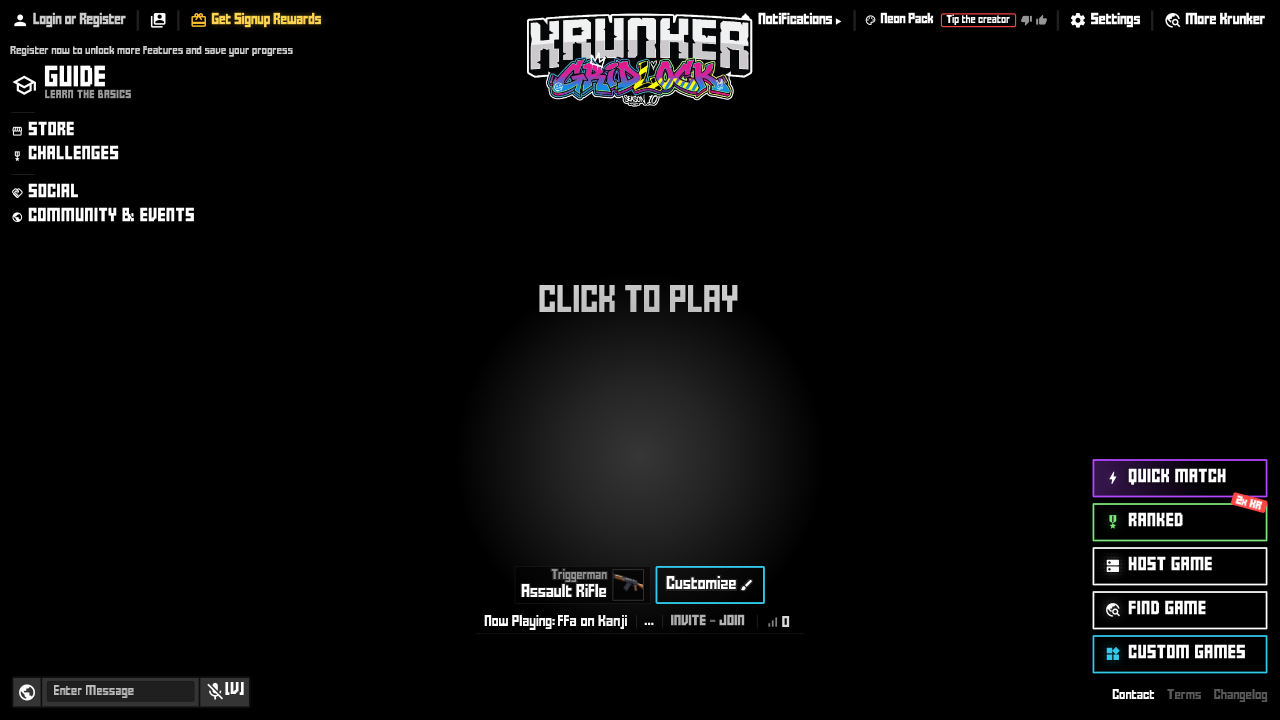
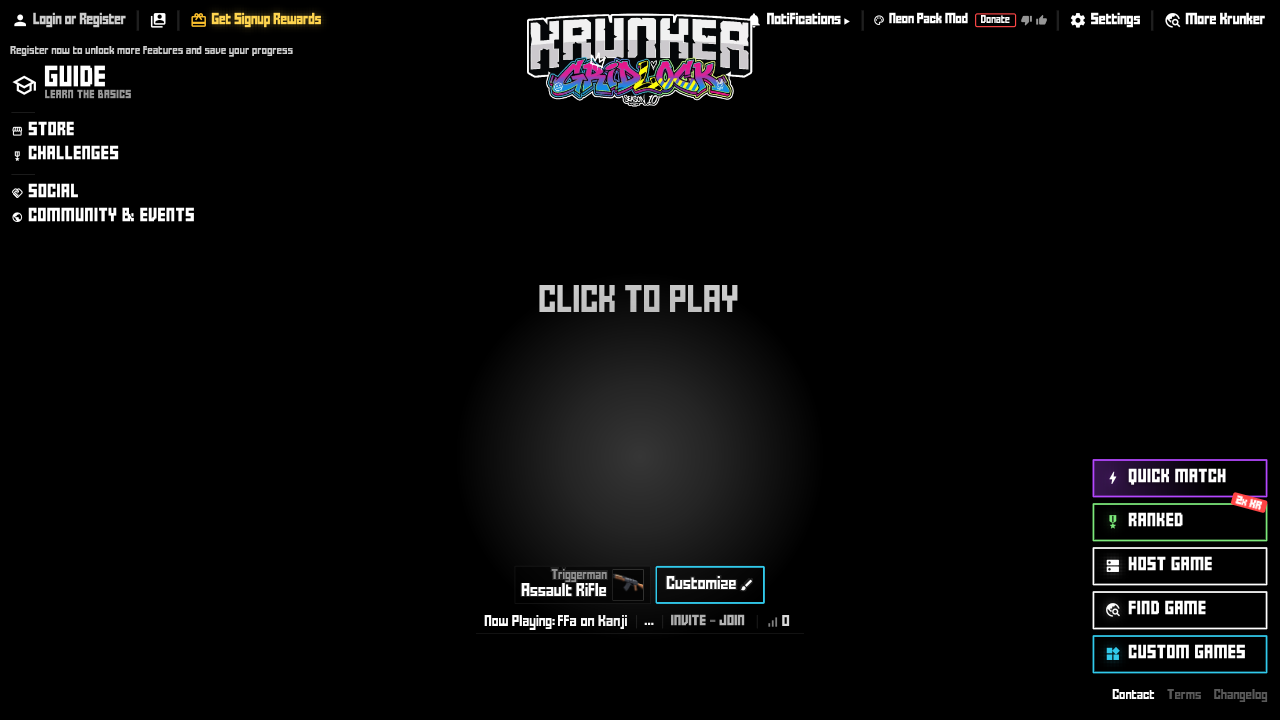
ui: the map and mod vote panels carry v10's Donate link and markup
v10.0.7 fills #mapVote with <div class='voteHint'>Donate</div> and a
<div style='float:right;'> holding the two thumbs (deob-10.0.7.js:226239),
and #modVoteHold with the same pair laid out with a "voteHint vHR" Donate
link (:225878); #modVoteName reads "<name> Mod" (:225875) and voteMod
hides the thumbs' box (:227008-227016).

KrunkNative drew Box Office's own "Tip the creator" span
(kn.creationVote.tip) inside a .kn-vote-pair span, and showed the bare
mod name. The panels now use v10's markup and label; the i18n key is gone.

creation_vote_test checks the exact markup, the label and "<name> Mod":
7 failures against the old creation_vote.c, 0 after. uidiff kn-map-vote
and kn-mod-vote failed at 29.6% and 14.9% against the old renders and
pass after rebaselining doc/ref/krunknative to the new ones.

Changed region(s): [[0.0, 0.9167, 0.2188, 1.0], [0.5625, 0.0, 0.7812, 0.0611], [0.4062, 0.7944, 0.4688, 0.825]]

diff --git a/client/src/ui/creation_vote.c b/client/src/ui/creation_vote.c
@@ -1,7 +1,7 @@
 // The menu's vote on the community map this game hosts (#mapVote) and on the player's loaded mod (#modVote).
 //
-// Behaviour follows Krunker v10.0.7; the markup and wording are Box Office's own:
-//   - a hosted published map fills #mapVote with a tip link for its creator and thumbs down / up
+// Behaviour, markup and wording follow Krunker v10.0.7:
+//   - a hosted published map fills #mapVote with a Donate link for its creator and thumbs down / up
 //     (deob-10.0.7.js:226239, from INIT's custom map id and creator; here NET_EXT_KN_CREATION_INFO);
 //     an official map or a map the brain does not know leaves it empty (:226235);
 //   - voteMap(id, v) (:227018-227031): pressing the side already chosen clears the vote (0), the other
@@ -9,8 +9,10 @@
 //     "Map Upvoted" line runs only when a third argument is passed, and the panel's onclick does not
 //     pass one, so a vote from the panel is silent. A guest's press just empties the panel (:227031);
 //   - voteMod(id, v) (:227008-227016): the same three-way choice for the loaded mod, then the thumbs'
-//     box is hidden and the Donate link stays; #modVote shows while a mod with a brain id is loaded
-//     (:225872-225880).
+//     box (modVoteU's parent) is hidden and the Donate link stays; #modVote shows "<name> Mod" while a mod
+//     with a brain id is loaded (:225872-225880).
+// The Donate links call openPlayerProfile with KrunkNative's positional arguments (name, autoGift, assetName)
+// where v10 passes {autoGift, assetName}: the page's inline handlers take no object literals.
 // Krunker sends the vote on the game socket (MAP_VOTE "vote"); Box Office's maps and mods live in kn_brain,
 // so the client posts it there (services/brain/v10_catalog.c POST /maps/:id/vote, v10_mods.c POST
 // /mods/:id/vote), which keeps one vote per account and the net count.
@@ -18,7 +20,6 @@
 
 #include <backend_ui.h>
 #include <html_dom.h>
-#include <i18n.h>
 #include <ui_logic.h>
 #include <v10_social.h>
 
@@ -85,18 +86,15 @@ static void render_map(void) {
         html_dom_set_html(box, "");
         return;
     }
-    char who[48], what[160], label[80], html[800];
+    char who[48], what[160], html[800];
     js_arg(who, sizeof(who), g_map.creator);
     js_arg(what, sizeof(what), g_map.name);
-    esc(label, sizeof(label), I18N("kn.creationVote.tip", "Tip the creator"));
     // openPlayerProfile(creator, {autoGift: 2, assetName: map}) (:226239): the gift view says "I like your <map> map"
     snprintf(html, sizeof(html),
-             "<span class=\"voteHint\" onclick='openPlayerProfile(\"%s\",2,\"%s\")'>%s</span>"
-             "<span class=\"kn-vote-pair\">"
-             "<i id=\"mapVoteD\" class=\"material-icons vote\" onclick=\"voteMap(%d,-1)\">thumb_down</i>"
-             "<i id=\"mapVoteU\" class=\"material-icons vote\" onclick=\"voteMap(%d,1)\">thumb_up</i>"
-             "</span>",
-             who, what, label, g_map.id, g_map.id);
+             "<div class='voteHint'  onclick='openPlayerProfile(\"%s\",2,\"%s\")'>Donate</div>"
+             "<div style='float:right;'><i id='mapVoteD' onclick='voteMap(%d,-1)' class='material-icons vote'>thumb_down</i>"
+             "<i id='mapVoteU' onclick='voteMap(%d,1)' class='material-icons vote'>thumb_up</i></div>",
+             who, what, g_map.id, g_map.id);
     html_dom_set_html(box, html);
 }
 
@@ -107,27 +105,25 @@ static void render_mod(void) {
         html_dom_set_display(box, "none");
         return;
     }
-    char name[96], text[128];
-    esc(name, sizeof(name), g_mod.name[0] ? g_mod.name : "Mod");
+    char text[128];
     const HtmlElem title = html_dom_by_id("modVoteName");
-    if (title) {
-        snprintf(text, sizeof(text), "%s", g_mod.name[0] ? g_mod.name : "Mod");
+    if (title) { // name + " Mod" (:225875)
+        snprintf(text, sizeof(text), "%s Mod", g_mod.name);
         html_dom_set_text(title, text);
     }
     const HtmlElem hold = html_dom_by_id("modVoteHold");
     if (hold) {
-        char who[48], what[160], label[80], html[800];
+        char who[48], what[160], html[800];
         js_arg(who, sizeof(who), g_mod.creator);
         js_arg(what, sizeof(what), g_mod.name);
-        esc(label, sizeof(label), I18N("kn.creationVote.tip", "Tip the creator"));
         // openPlayerProfile(creator, {autoGift: 1, assetName: mod}) (:225878): "I like your <mod> mod"
         snprintf(html, sizeof(html),
-                 "<span class=\"voteHint vHR\" onclick='openPlayerProfile(\"%s\",1,\"%s\")'>%s</span>"
-                 "<span class=\"kn-vote-pair\" id=\"modVotePair\">"
-                 "<i id=\"modVoteD\" class=\"material-icons vote\" onclick=\"voteMod(%d,-1)\">thumb_down</i>"
-                 "<i id=\"modVoteU\" class=\"material-icons vote\" onclick=\"voteMod(%d,1)\">thumb_up</i>"
-                 "</span>",
-                 who, what, label, g_mod.id, g_mod.id);
+                 "\n\t\t\t\t<div class=\"voteHint vHR\" onclick='openPlayerProfile(\"%s\",1,\"%s\")'>Donate</div>\n"
+                 "\t\t\t\t<div style=\"float:right;\">\n"
+                 "\t\t\t\t\t<i id=\"modVoteD\" onclick=\"voteMod(%d, -1);\" class='material-icons vote'>thumb_down</i>\n"
+                 "\t\t\t\t\t<i id=\"modVoteU\" onclick=\"voteMod(%d, 1);\" class='material-icons vote'>thumb_up</i>\n"
+                 "\t\t\t\t</div>\n\t\t\t",
+                 who, what, g_mod.id, g_mod.id);
         html_dom_set_html(hold, html);
         html_dom_set_display(hold, "");
     }
@@ -196,7 +192,8 @@ int creation_vote_handle(const char *name, const HtmlEvent *ev, const HtmlArg *a
         remove_by_id("mapVoteU");
     } else {
         // the thumbs' box (modVoteU's parent), not the Donate link beside it (:227016)
-        const HtmlElem pair = html_dom_by_id("modVotePair");
+        const HtmlElem up = html_dom_by_id("modVoteU");
+        const HtmlElem pair = up ? html_dom_parent(up) : 0;
         if (pair) html_dom_set_display(pair, "none");
     }
     return 0;

diff --git a/client/tests/creation_vote_test.c b/client/tests/creation_vote_test.c
@@ -15,7 +15,8 @@ static int g_fail;
 
 // ---- stubs: a tiny id -> {html, display, removed} table
 typedef struct { const char *id; char html[1024]; char display[16]; int removed; } El;
-static El g_els[] = {{"mapVote"}, {"modVote"}, {"modVoteName"}, {"modVoteHold"}, {"mapVoteU"}, {"mapVoteD"}, {"modVotePair"}};
+// modVoteU's parent stands for the thumbs' box of #modVoteHold's markup (v10 gives it no id)
+static El g_els[] = {{"mapVote"}, {"modVote"}, {"modVoteName"}, {"modVoteHold"}, {"mapVoteU"}, {"mapVoteD"}, {"(modVoteU's parent)"}, {"modVoteU"}};
 #define NELS ((int) (sizeof(g_els) / sizeof(g_els[0])))
 HtmlElem html_dom_by_id(const char *id) {
     for (int i = 0; i < NELS; i++)
@@ -26,6 +27,7 @@ void html_dom_set_html(HtmlElem e, const char *html) { snprintf(g_els[e - 1].htm
 void html_dom_set_text(HtmlElem e, const char *t) { snprintf(g_els[e - 1].html, sizeof(g_els[0].html), "%s", t); }
 void html_dom_set_display(HtmlElem e, const char *v) { snprintf(g_els[e - 1].display, sizeof(g_els[0].display), "%s", v); }
 void html_dom_remove(HtmlElem e) { g_els[e - 1].removed = 1; }
+HtmlElem html_dom_parent(HtmlElem e) { return e == 8 ? (HtmlElem) 7 : 0; }
 const char *i18n_tr(const char *key, const char *english) { (void) key; return english; }
 
 static char g_notice[256];
@@ -61,9 +63,15 @@ int main(void) {
 
     // a hosted map fills #mapVote with both buttons
     creation_vote_set_map(4242, "Arena", "alice");
-    CHECK(strstr(g_els[0].html, "id=\"mapVoteU\"") && strstr(g_els[0].html, "id=\"mapVoteD\""), "map buttons rendered");
-    // the tip opens the creator's profile with autoGift 2 and the map's name (deob-10.0.7.js:226239)
+    CHECK(strstr(g_els[0].html, "id='mapVoteU'") && strstr(g_els[0].html, "id='mapVoteD'"), "map buttons rendered");
+    // Donate opens the creator's profile with autoGift 2 and the map's name (deob-10.0.7.js:226239)
     CHECK(strstr(g_els[0].html, "voteMap(4242,1)") && strstr(g_els[0].html, "openPlayerProfile(\"alice\",2,\"Arena\")"), "map handlers");
+    // v10's label and markup: a voteHint div "Donate", the thumbs in a float:right div (:226239)
+    CHECK(strstr(g_els[0].html, "<div class='voteHint'  onclick='openPlayerProfile(\"alice\",2,\"Arena\")'>Donate</div>"
+                                "<div style='float:right;'><i id='mapVoteD' onclick='voteMap(4242,-1)' class='material-icons vote'>thumb_down</i>"
+                                "<i id='mapVoteU' onclick='voteMap(4242,1)' class='material-icons vote'>thumb_up</i></div>") != NULL,
+          "map panel: v10's Donate link and thumbs markup");
+    CHECK(!strstr(g_els[0].html, "Tip the creator"), "map panel: no Box Office tip wording");
 
     // a creator name cannot break out of the inline handler
     creation_vote_set_map(4242, "Arena", "al\"ice');x()//");
@@ -112,9 +120,13 @@ int main(void) {
     // a loaded mod shows #modVote; its vote posts to /mods/:id/vote and hides the thumbs, not Donate
     reset_els();
     creation_vote_set_mod(55, "Neon", "carol");
-    CHECK(!strcmp(g_els[1].display, "block") && !strcmp(g_els[2].html, "Neon"), "mod panel shown with its name");
-    CHECK(strstr(g_els[3].html, "voteMod(55,-1)") && strstr(g_els[3].html, "id=\"modVoteU\""), "mod buttons rendered");
-    CHECK(strstr(g_els[3].html, "openPlayerProfile(\"carol\",1,\"Neon\")") != NULL, "mod tip: autoGift 1 and the mod's name (deob-10.0.7.js:225878)");
+    CHECK(!strcmp(g_els[1].display, "block") && !strcmp(g_els[2].html, "Neon Mod"), "mod panel shown as \"<name> Mod\" (:225875)");
+    CHECK(strstr(g_els[3].html, "voteMod(55, -1)") && strstr(g_els[3].html, "id=\"modVoteU\""), "mod buttons rendered");
+    CHECK(strstr(g_els[3].html, "openPlayerProfile(\"carol\",1,\"Neon\")") != NULL, "mod Donate: autoGift 1 and the mod's name (deob-10.0.7.js:225878)");
+    CHECK(strstr(g_els[3].html, "<div class=\"voteHint vHR\" onclick='openPlayerProfile(\"carol\",1,\"Neon\")'>Donate</div>\n"
+                                "\t\t\t\t<div style=\"float:right;\">\n"
+                                "\t\t\t\t\t<i id=\"modVoteD\" onclick=\"voteMod(55, -1);\" class='material-icons vote'>thumb_down</i>") != NULL,
+          "mod panel: v10's Donate link and thumbs markup (:225878)");
     press("voteMod", 55, -1);
     CHECK(!strcmp(g_path, "POST /mods/55/vote") && g_sent_vote == -1 && !strcmp(g_els[6].display, "none") && g_els[3].display[0] == 0,
           "mod downvote hides the thumbs and leaves Donate");
